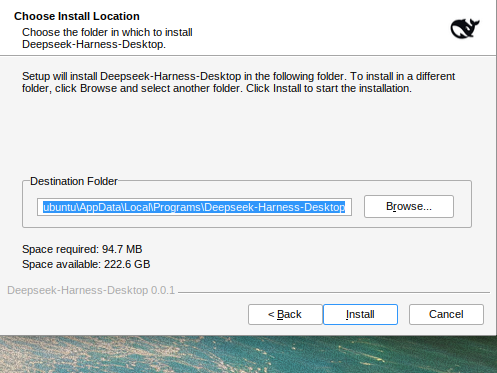
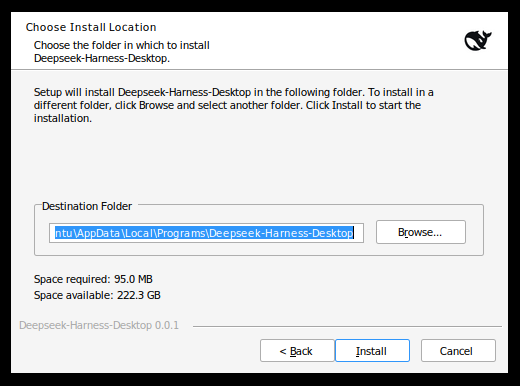
feature(windows-installer): wine+Xvfb re-walkthrough of light-token branding — welcome/license/mode/directory/uninstall-welcome verified
Rebuilt the stub NSIS target with the regenerated launcher-aligned bitmaps and re-captured the wizard pages; uninstaller welcome captured from the extracted embedded uninstaller. Installing page still loops on wine's false running-app detection (documented environment noise); finish page and real /S stay on the CI windows artifact checklist.

diff --git a/docs/qa/results/2026-08-25/installer-branding/EXECUTION-REPORT.md b/docs/qa/results/2026-08-25/installer-branding/EXECUTION-REPORT.md
@@ -1,20 +1,22 @@
-# 2026-08-25 · Windows 安装器品牌化 · Linux/wine 预验证
+# 2026-08-25 · Windows 安装器品牌化（浅色对齐重制）· Linux/wine 预验证
 
-**对象：** 分支 `cursor/windows-installer-branding-5f26` 的 `build.nsis` 品牌化配置（欢迎/完成侧栏位图、header 位图、MIT 许可页、zh_CN+en_US、`build/installer.nsh`）。
-**方法：** Linux 云端无 Windows 实机。用与仓库相同的 `build.nsis` 块 + 品牌资产搭 stub 工程，经仓库锁定的 electron-builder 26.15.3 完整跑 `--win nsis` 目标（makensis 原生编译 + wine 生成卸载器），产出 `Deepseek-Harness-Desktop-Setup-0.0.1.exe` + blockmap；再在 wine + Xvfb 下打开 GUI 向导逐页截图。
+**对象：** 分支 `cursor/windows-installer-branding-5f26` 第二轮位图——按设计语言把欢迎/完成侧栏从近黑营销面板重制为官方浅色表（启动器同源）：侧栏底 `rgb(249,250,251)`（`--dsw-specific-sidebar-fill` 镜像）+ 近黑鲸标与产品名 `Deepseek-Harness-Desktop`（`--dsw-alias-label-primary`）+ 细蓝强调线（`--dsw-static-deepseek-500`）+ 右缘发丝线；header 鲸标改 label 墨色；卸载侧栏为同一浅色构图的灰阶弱化版。
+**方法：** Linux 云端无 Windows 实机。用与仓库相同的 `build.nsis` 块 + 新品牌资产搭 stub 工程，经仓库锁定的 electron-builder 26.15.3 完整跑 `--win nsis` 目标（makensis 原生编译 + wine32 生成卸载器），产出 `Deepseek-Harness-Desktop-Setup-0.0.1.exe` + blockmap；再在 wine + Xvfb 下打开 GUI 向导逐页截图（xdotool 驱动）。卸载器从 Setup 包内 `$R0/Uninstall Deepseek-Harness-Desktop.exe` 提取后单独打开截图。
 
 ## 结果
 
 | 检查 | 结果 | 证据 |
 | --- | --- | --- |
-| NSIS 脚本编译（installer.nsh 宏、位图、许可、双语言） | Pass — makensis 无错误出包 | stub 构建日志（Setup exe + blockmap 生成） |
-| 欢迎页：品牌侧栏 + 三行标题 | Pass | [wizard-welcome.png](wizard-welcome.png) |
-| 许可页：MIT 原文 + BrandingText `Deepseek-Harness-Desktop <version>` | Pass | [wizard-license.png](wizard-license.png) |
+| NSIS 脚本编译（installer.nsh 宏、新位图、许可、双语言） | Pass — makensis 无错误出包（100MB Setup + blockmap） | stub 构建日志 |
+| 欢迎页：浅色侧栏 + 近黑鲸标 + 产品名 + 细蓝线 + 发丝线 | Pass — 不再是近黑面板/平行 wordmark | [wizard-welcome.png](wizard-welcome.png) |
+| 许可页：MIT 原文 + 墨色鲸标 header + BrandingText `Deepseek-Harness-Desktop <version>` | Pass | [wizard-license.png](wizard-license.png) |
 | 安装模式页：默认「仅为我安装」（per-user） | Pass | [wizard-install-mode.png](wizard-install-mode.png) |
-| 目录页：鲸标 header、默认 `%LOCALAPPDATA%\Programs\Deepseek-Harness-Desktop`、可改目录 | Pass | [wizard-directory.png](wizard-directory.png) |
-| 静默 `/S` 行为与旧配置一致 | Pass（归因级） — 新旧配置 stub 在 wine 下都因 wine 的运行中应用误检以 exit 2 中止：环境噪声，非本次改动引入。nsh 宏白名单单测保证品牌化只挂 GUI 页 | 对照 stub `/tmp/nsis-control`（旧配置）同样 exit 2 |
+| 目录页：默认 `%LOCALAPPDATA%\Programs\Deepseek-Harness-Desktop`、可改目录 | Pass | [wizard-directory.png](wizard-directory.png) |
+| 卸载向导欢迎页：同一浅色构图的灰阶弱化侧栏 | Pass（位图级） — 从 Setup 内提取的卸载器单独打开验证 | [wizard-uninstall-welcome.png](wizard-uninstall-welcome.png) |
+| 门禁单测（token 镜像 + `#0b0d12` / `--boot-*` 回归拒绝） | Pass — `node --test src/main/installer-branding.test.js` 8/8；`npm test` 1010 pass / 0 fail | 本地运行 |
 
-## 已知限制
+## 已知限制与发现
 
-- wine 不是 Windows：完成页（复用欢迎页侧栏位图 + 运行勾选 + 仓库链接）、卸载向导灰阶侧栏、真实 `/S` 静默安装与覆盖升级需在下一个 CI windows artifact 上按 TC-INST-001 / 009 / 010 实机走查。
-- wine 下安装进度在解压阶段挂起（运行中应用误检循环），GUI 走查止于 Installing 页；不影响以上已验页面结论。
+- wine 不是 Windows：安装进度页在 wine 下循环误报「Deepseek-Harness-Desktop is running」（上一轮新旧配置 stub 均复现的环境噪声），GUI 走查止于 Installing 页；完成页（复用欢迎页侧栏位图 + 运行勾选 + 仓库链接）、真实 `/S` 静默安装与覆盖升级需在下一个 CI windows artifact 上按 TC-INST-001 / 009 / 010 实机走查。
+- 本轮 wine 局点为 en-US，向导取 en_US 语言（与上一轮证据一致）；zh_CN 首选回退逻辑未变，实机中文走查随 TC-INST-001。
+- 发现（非本次回归）：卸载器欢迎页标题第三行被裁（`MUI_WELCOMEPAGE_TITLE_3LINES` 只作用于安装器欢迎页，electron-builder 的 un-welcome 页不在 `customWelcomePage`/`customHeader` 白名单可达范围）。属上游模板限制，标题文案本次未改；如要修需评估新增 `customUnWelcomePage` 扩展点是否破坏静默安全白名单。

diff --git a/docs/features/windows-installer.md b/docs/features/windows-installer.md
@@ -4,7 +4,7 @@
 | --- | --- |
 | **id** | `windows-installer` |
 | **status** | `active` |
-| **last verified** | 2026-08-25 — `node --test src/main/installer-branding.test.js` 全绿；stub 工程经 electron-builder 26.15.3 完整编译 NSIS 目标并在 wine+Xvfb 下逐页截图（欢迎/许可/模式/目录页 Pass，见 [QA 证据](../qa/results/2026-08-25/installer-branding/EXECUTION-REPORT.md)）；完成页/卸载页/真实 `/S` 待 CI windows artifact 实机走查（TC-INST-001/009/010） |
+| **last verified** | 2026-08-25 — 浅色对齐重制后 `node --test src/main/installer-branding.test.js` 8/8、`npm test` 1010 pass；stub 工程经 electron-builder 26.15.3 完整编译 NSIS 目标并在 wine+Xvfb 下逐页截图（欢迎/许可/模式/目录/卸载欢迎页 Pass，见 [QA 证据](../qa/results/2026-08-25/installer-branding/EXECUTION-REPORT.md)）；完成页/真实 `/S` 待 CI windows artifact 实机走查（TC-INST-001/009/010） |
 
 ## User paths
 
